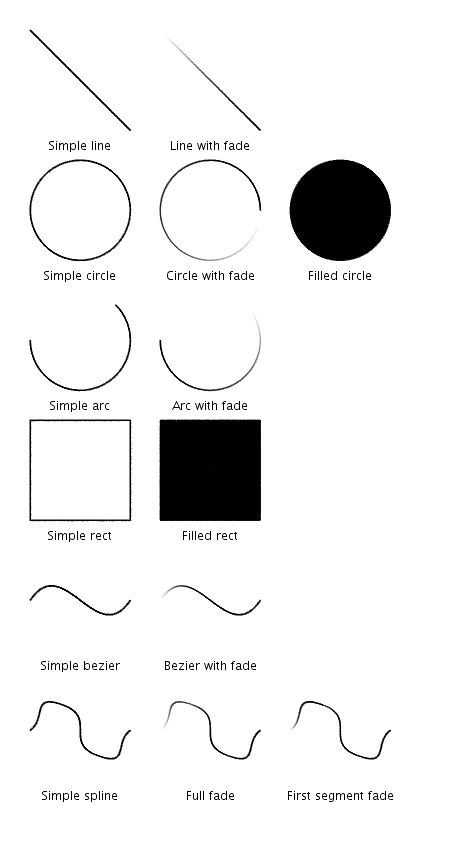
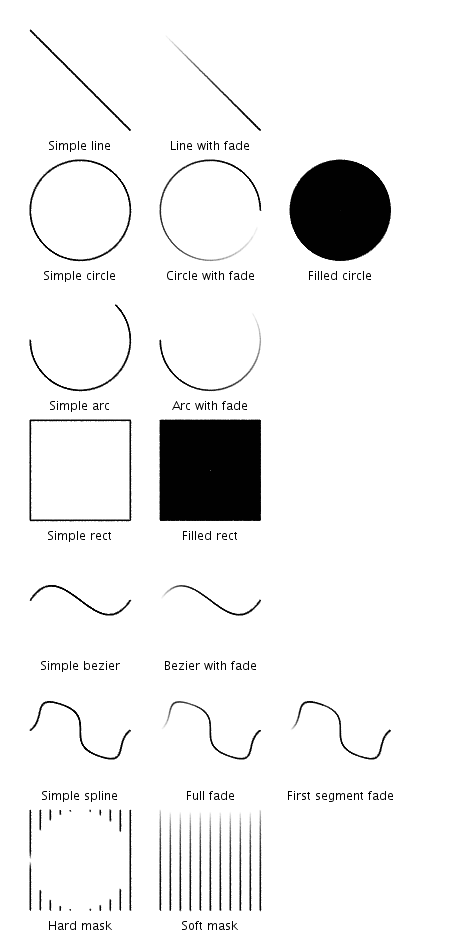
Add masking support
and clean-up example

diff --git a/src/paperandpencil/PaperAndPencil.java b/src/paperandpencil/PaperAndPencil.java
@@ -2,6 +2,7 @@ package paperandpencil;
 
 import processing.core.PApplet;
 import processing.core.PConstants;
+import processing.core.PGraphics;
 
 /**
  * PaperAndPencil provides utilities for creating paper-like textures and pencil-like drawing effects
@@ -13,6 +14,8 @@ public class PaperAndPencil {
     int pencilColor;
     boolean printMode;
     float pencilSpread;
+    PGraphics maskBuffer;
+    boolean useMask = false;
     
     public enum QualityMode {
         DRAFT,      // Fast rendering with fewer points
@@ -32,6 +35,42 @@ public class PaperAndPencil {
         this.pencilColor = p.color(0, 0, 0, 30);
         this.printMode = false;
         this.pencilSpread = 2f;
+    }
+
+    /**
+     * Initializes and returns the mask buffer for drawing.
+     * When drawing, the mask's alpha channel is used to determine the opacity of the pencil strokes:
+     * Anything transparent on the mask will allow the pencil strokes to show through.
+     * Anything opaque will block the pencil strokes.
+     * The opacity of the mask is set to 0 (fully transparent). 
+     * 
+     * The mask won't actually be used until useMask() is called.
+     * 
+     * @see #useMask()
+     * 
+     * @return The PGraphics object for the mask buffer
+     */
+    public PGraphics resetMask() {
+        if (this.maskBuffer == null) {
+            this.maskBuffer = p.createGraphics(p.width, p.height);
+        }
+        this.maskBuffer.beginDraw();
+        this.maskBuffer.clear();
+        this.useMask = false;
+        return this.maskBuffer;
+    }
+
+    /**
+     * Ends the mask drawing. From this point, the mask will be used to control the opacity of pencil strokes.
+     * resetMask() must be called first to create the mask buffer.
+     */
+    public void useMask() {
+        if (this.maskBuffer == null) {
+            System.err.println("Error: No mask buffer created. Call resetMask() first.");
+            return;
+        }
+        this.maskBuffer.endDraw();
+        this.useMask = true;
     }
     
     /**
@@ -136,6 +175,11 @@ public class PaperAndPencil {
         return this.pencilColor;
     }
 
+    /**
+     * Sets the spread of the pencil strokes. Higher values create a more textured effect.
+     * 
+     * @param spread The spread value (default is 2.0)
+     */
     public void setPencilSpread(float spread) {
         this.pencilSpread = spread;
     }
@@ -174,11 +218,45 @@ public class PaperAndPencil {
         }
     }
 
+    /**
+     * Draws a dot with a pencil-like effect at the specified coordinates, with random spread and optional masking.
+     * 
+     * @param x x-coordinate of the dot
+     * @param y y-coordinate of the dot
+     */
     public void dot(float x, float y) {
+        if (x < 0 || x >= p.width || y < 0 || y >= p.height) return;
+
+        float opacity = 1.0f;
+        if (useMask && maskBuffer != null) {
+            // Get the alpha channel value from the mask (0-255)
+            int maskAlpha = (maskBuffer.get((int)x, (int)y) >> 24) & 0xFF;
+            // Convert to 0-1 range and use it to scale our opacity
+            opacity = 1f - (maskAlpha / 255.0f);
+            if (opacity == 0) return; // Skip fully masked pixels
+        }
+
+        // Save current fill color
+        int originalFill = p.g.fillColor;
+
         float spread = getPencilSpreadForMode();
         float size = qualityMode == QualityMode.PRINT ? 1.5f : p.random(2);
-        // Use the current fill settings instead of setting our own
+
+        if (opacity < 1f) {
+            // Get the current fill color's components
+            float h = p.hue(pencilColor);
+            float s = p.saturation(pencilColor);
+            float b = p.brightness(pencilColor);
+            float a = p.alpha(pencilColor) * opacity; // Blend the alpha with mask opacity
+            
+            // Apply the modified alpha
+            p.fill(h, s, b, a);
+        }
+
         p.circle(x + p.random(spread), y + p.random(spread), size);
+        
+        // Restore original fill color
+        p.fill(originalFill);
     }
 
     /**
